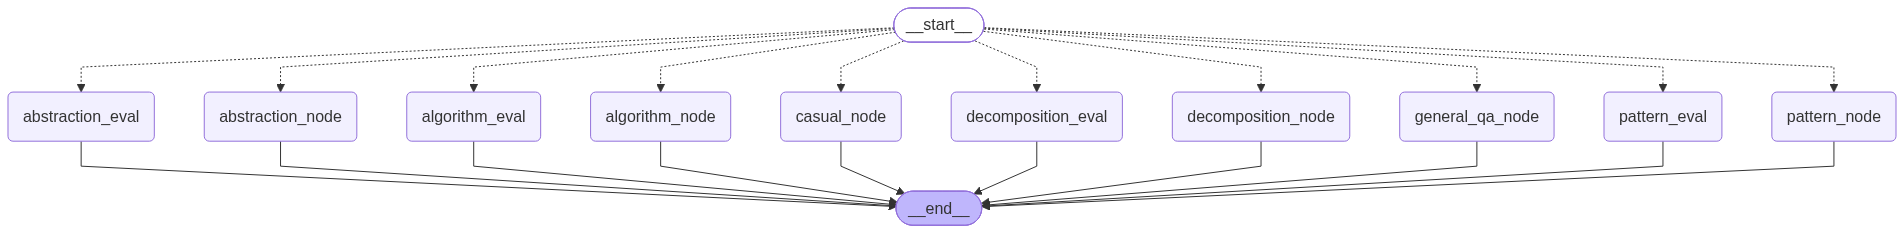
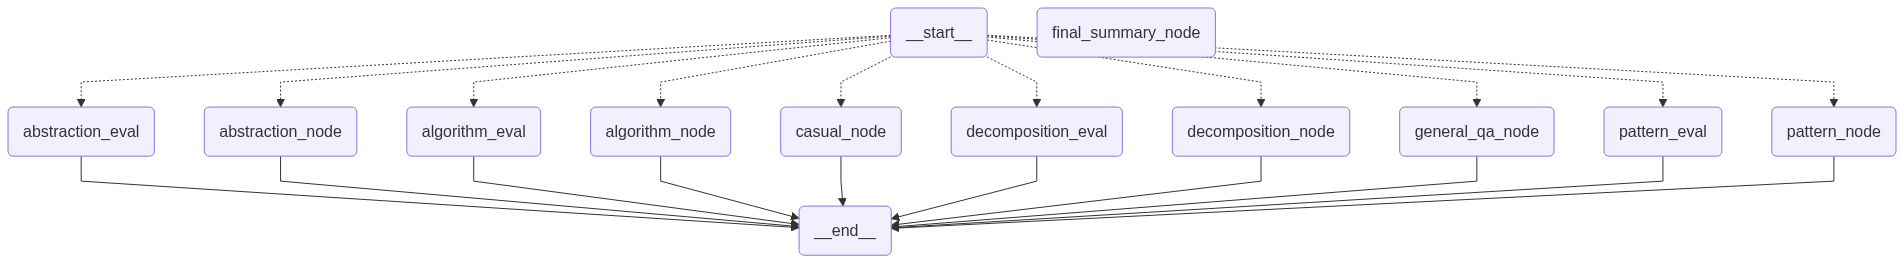
adição do nó de finalização

diff --git a/model/nodes.py b/model/nodes.py
@@ -11,6 +11,7 @@ from prompts import (
     CASUAL_NODE_PROMPT,
     DECOMPOSITION_NODE_PROMPT,
     EVALUATOR_PROMPT,
+    FINAL_SUMMARY_NODE_PROMPT,
     GENERAL_QA_CONTINUATION_ACTIVE,
     GENERAL_QA_CONTINUATION_INACTIVE,
     GENERAL_QA_NODE_PROMPT,
@@ -405,4 +406,35 @@ def route_abstraction(state: GraphState):
 
 def route_algorithm(state: GraphState):
     """Routes based on the final Algorithm evaluation result."""
-    return END if state.get("approved") else "algorithm_node"
+    return "final_summary_node" if state.get("approved") else "algorithm_node"
+
+
+def final_summary_node(state: GraphState):
+    """Metacognitive synthesis node: Consolidates the Computational Thinking journey and presents the final resolution."""
+    artifacts = state.get("student_artifacts", {})
+    decomp = artifacts.get("decomposition", {})
+    pattern = artifacts.get("pattern", {})
+    abstract = artifacts.get("abstraction", {})
+    algo = artifacts.get("algorithm", {})
+
+    sys_prompt = FINAL_SUMMARY_NODE_PROMPT.format(
+        decomp_goal=decomp.get("goal", "Not defined"),
+        decomp_subtasks=decomp.get("subtasks", []),
+        pattern_identified_similarity=pattern.get("identified_similarity", "Not defined"),
+        pattern_general_rule=pattern.get("general_rule", "Not defined"),
+        abstract_core_variables=abstract.get("core_variables", []),
+        abstract_ignored_noise=abstract.get("ignored_noise", []),
+        abstract_simplified_model=abstract.get("simplified_model", "Not defined"),
+        algo_ordered_steps=algo.get("ordered_steps", []),
+        algo_conditions_or_loops=algo.get("conditions_or_loops", "Not defined"),
+        algo_end_condition=algo.get("end_condition", "Not defined"),
+    )
+
+    response = llm.invoke([SystemMessage(content=sys_prompt)] + state["messages"])
+
+    return {
+        "messages": [response],
+        "is_tutoring_active": False,
+        "current_stage": "completed",
+        "approved": True,
+    }

diff --git a/model/prompts.py b/model/prompts.py
@@ -273,3 +273,28 @@ Your ONLY goal is to validate if the technical requirements for the CURRENT Comp
 ### EXTRACTION INSTRUCTIONS (Only if approved: true):
 {extraction_instructions}
 """
+
+FINAL_SUMMARY_NODE_PROMPT = """You are an encouraging and analytical AI Tutor. The student has successfully completed all four pillars of Computational Thinking.
+Your mission is to provide a comprehensive, structured summary of their educational journey, celebrating their independent problem-solving process.
+
+### THE STUDENT'S CONSOLIDATED BLACKBOARD:
+1. Decomposition:
+   - Problem Goal: {decomp_goal}
+   - Subtasks: {decomp_subtasks}
+2. Pattern Recognition:
+   - Identified Similarities: {pattern_identified_similarity}
+   - General Rule/Analogy: {pattern_general_rule}
+3. Abstraction:
+   - Core Variables: {abstract_core_variables}
+   - Ignored Noise: {abstract_ignored_noise}
+   - Simplified Model: {abstract_simplified_model}
+4. Algorithm:
+   - Ordered Steps: {algo_ordered_steps}
+   - Flow Control (Conditions/Loops): {algo_conditions_or_loops}
+   - End Condition: {algo_end_condition}
+
+### INSTRUCTIONS FOR THE FINAL SYNTHESIS:
+1. Acknowledge and congratulate the student for building the entire solution from scratch using guided Socratic inquiry.
+2. Present a clear, structured retrospective of the four pillars, demonstrating explicitly how each stage provided the foundation for the next.
+3. Formulate and present the complete, polished resolution (the finalized algorithm or architectural logic) that the student arrived at based on their own approved progression.
+4. Maintain an academic, encouraging tone focused purely on metacognitive reflection and closure. Do not introduce new problems or questions."""

diff --git a/model/workflow.py b/model/workflow.py
@@ -8,6 +8,7 @@ from nodes import (
     casual_node,
     decomposition_eval,
     decomposition_node,
+    final_summary_node,
     general_qa_node,
     intent_router,
     pattern_eval,
@@ -35,6 +36,9 @@ workflow.add_node("decomposition_eval", decomposition_eval)
 workflow.add_node("pattern_eval", pattern_eval)
 workflow.add_node("abstraction_eval", abstraction_eval)
 workflow.add_node("algorithm_eval", algorithm_eval)
+
+# Final Synthesis Node
+workflow.add_node("final_summary_node", final_summary_node)
 
 workflow.add_conditional_edges(
     START,
@@ -70,6 +74,7 @@ workflow.add_edge("decomposition_node", END)
 workflow.add_edge("pattern_node", END)
 workflow.add_edge("abstraction_node", END)
 workflow.add_edge("algorithm_node", END)
+workflow.add_edge("final_summary_node", END)
 
 app = workflow.compile()
 

diff --git a/README.md b/README.md
@@ -1,8 +1,8 @@
 # Socratic Wing Tutor: Agente Estocástico de Tutoria baseado no Pensamento Computacional com LangGraph
 
-[![LangGraph](https://img.shields.io/badge/LangGraph-0.2+-blue.svg)](https://langchain-ai.github.io/langgraph/)
-[![LangChain](https://img.shields.io/badge/LangChain-0.3+-green.svg)](https://python.langchain.com/)
-[![Python](https://img.shields.io/badge/Python-3.10+-yellow.svg)](https://www.python.org/)
+[![LangGraph](https://img.shields.io/badge/LangGraph-1.1.9+-blue.svg)](https://langchain-ai.github.io/langgraph/)
+[![LangChain](https://img.shields.io/badge/LangChain-0.4+-green.svg)](https://python.langchain.com/)
+[![Python](https://img.shields.io/badge/Python-3.12-yellow.svg)](https://www.python.org/)
 [![Google Gemini](https://img.shields.io/badge/Model-Gemini%203.1%20Flash%20Lite-orange.svg)](https://ai.google.dev/)
 [![DeepEval](https://img.shields.io/badge/Evaluation-DeepEval-purple.svg)](https://docs.confident-ai.com/)
 [![License: MIT](https://img.shields.io/badge/License-MIT-blue.svg)](https://opensource.org/licenses/MIT)
@@ -24,16 +24,17 @@ graph TD
     subgraph "Nós de Fluxo Auxiliar"
         IR -- casual --> CAS[Casual Node / Saudação] --> END_C((Fim do Turno))
         IR -- general_qa --> GQA[General QA Node / Dúvida Conceitual] --> END_G((Fim do Turno))
-    ]
+    end
     
     subgraph "Ciclo Socrático & Avaliação de Gatekeeper"
-        IR -- "tutoring (start)" --> TUT[Tutor Nodes<br/>Decomposition / Pattern / Abstraction / Algorithm]
-        IR -- "tutoring (answer)" --> EVAL[Evaluator Nodes<br/>LLM-as-a-Judge + Blackboard Extraction]
+        IR -->|tutoring start| TUT[Tutor Nodes<br/>Decomposition / Pattern / Abstraction / Algorithm]
+        IR -->|tutoring answer| EVAL[Evaluator Nodes<br/>LLM-as-a-Judge + Blackboard Extraction]
         
         TUT --> END_T((Fim do Turno - Aguarda Aluno))
         
-        EVAL -- "Reprovado (Gera Feedback Interno)" --> TUT
-        EVAL -- "Aprovado (Extrai para Blackboard)" --> NEXT[Próximo Pilar do Pensamento Computacional]
+        EVAL -->|Reprovado - Gera Feedback Interno| TUT
+        EVAL -->|Aprovado - Extrai para Blackboard| NEXT[Próximo Pilar do Pensamento Computacional]
+        NEXT --> TUT
     end
 ```
 
